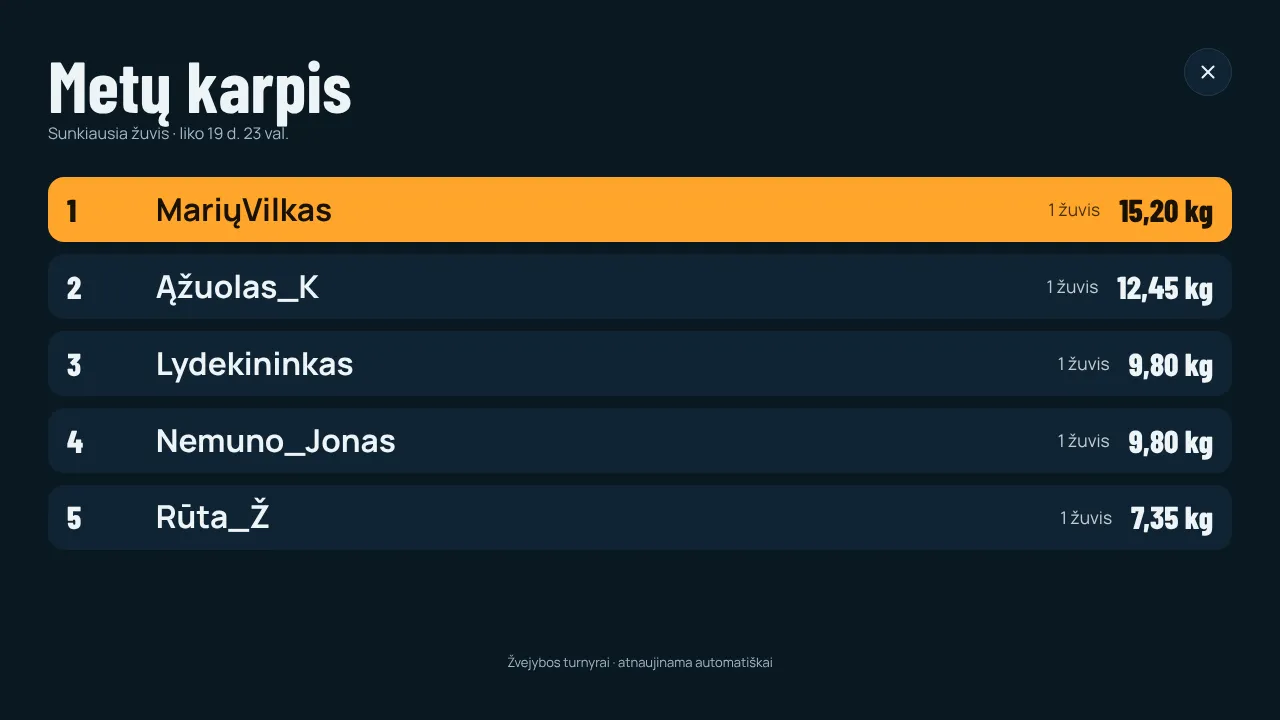
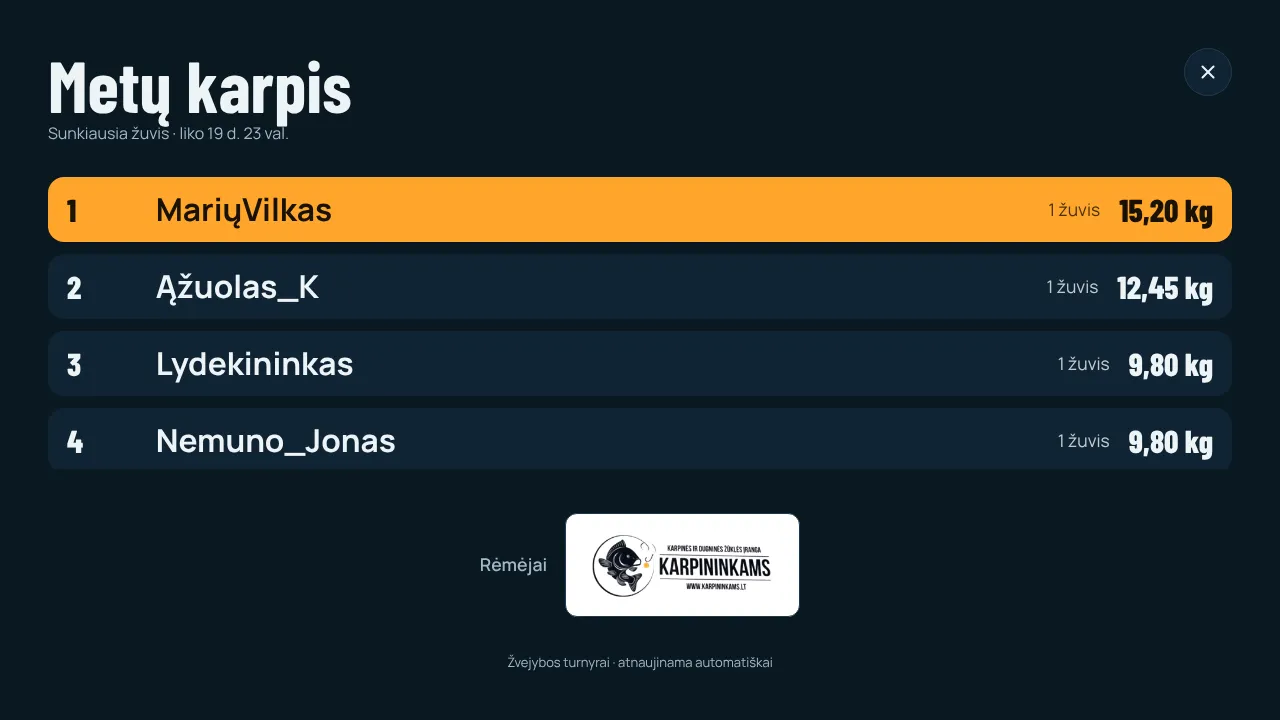
Pavyzdys rėmėjui: tikras logotipas, generalinis rėmėjas
Claude-Session: https://claude.ai/code/session_01KkNeEyQRMzFSekTpSTZf8k

diff --git a/metu-karpis.html b/metu-karpis.html
@@ -38,7 +38,10 @@
     .hero-grid { display: grid; gap: 32px; align-items: center; }
     @media (min-width: 860px) { .hero-grid { grid-template-columns: 1.1fr .9fr; } }
     .hero h1 { font-size: clamp(50px, 12vw, 88px); line-height: .95; font-weight: 800; }
-    .for { margin-top: 14px; font-weight: 700; color: var(--soft); }
+    .for { margin-top: 18px; display: inline-flex; flex-wrap: wrap; max-width: 100%; align-items: center; gap: 14px; padding: 10px 16px 10px 10px; border-radius: 18px; background: var(--surface); border: 1px solid rgba(255,166,43,.5); }
+    .for img { width: 140px; flex: none; border-radius: 10px; background: #fff; }
+    .for span { display: flex; flex-direction: column; line-height: 1.3; color: var(--soft); font-size: 14px; }
+    .for b { color: var(--accent); font-size: 17px; }
     .hero .lead { margin: 16px 0 24px; }
     .btn { display: inline-flex; align-items: center; justify-content: center; gap: 10px; min-height: 54px; padding: 0 24px; border-radius: 16px; font-weight: 800; font-size: 17px; text-decoration: none; border: 2px solid transparent; }
     .btn-primary { background: var(--accent); color: var(--on-accent); }
@@ -85,14 +88,14 @@
       <div>
         <span class="kicker">Sezono turnyras</span>
         <h1>Metų <b>karpis</b></h1>
-        <p class="for">Pasiūlymas BOILIS (Karpininkams.lt)</p>
+        <div class="for"><img src="store/pavyzdys/karpininkams.webp" alt="Karpininkams.lt" width="640" height="264"><span>Generalinis rėmėjas<b>BOILIS (Karpininkams.lt)</b></span></div>
         <p class="lead">Visą karpių sezoną žvejai varžosi dėl sunkiausio karpio. Žuvis pasveriama, nufotografuojama programėlės kamera ir paleidžiama. Lentelė atsinaujina gyvai, o BOILIS matomas visur, kur žvejai žiūri.</p>
         <div class="btns">
           <a class="btn btn-primary" href="#isbandyti">Išbandyti patiems</a>
           <a class="btn btn-ghost" href="#kaip">Kaip tai veikia</a>
         </div>
       </div>
-      <div class="phone"><img src="store/pavyzdys/lentele.webp" alt="„Metų karpis“ lentelė: vietos ir svoriai kilogramais, viršuje „Lentelę remia BOILIS (Karpininkams.lt)“" width="540" height="1169"></div>
+      <div class="phone"><img src="store/pavyzdys/lentele.webp" alt="„Metų karpis“ lentelė: vietos ir svoriai kilogramais, viršuje „Lentelę remia“ su Karpininkams logotipu" width="540" height="1169"></div>
     </div>
     <div class="facts">
       <div class="fact"><span>Trukmė</span><b>Kovas – rugsėjis</b></div>
@@ -121,8 +124,8 @@
         <div class="txt"><h3><span class="num">3</span>Mato savo vietą</h3><p>Moderatoriui patvirtinus, karpis atsiranda lentelėje. Žvejys mato savo vietą ir kiek trūksta iki aukštesnės.</p></div>
       </div>
     </div>
-    <img class="wide" src="store/pavyzdys/ekranas.webp" alt="Didžiojo ekrano vaizdas: „Metų karpis“ lentelė kilogramais" width="1280" height="720" loading="lazy">
-    <p class="note">Ekrano nuotraukose – pavyzdiniai duomenys (žvejų vardai ir svoriai sugalvoti), kad matytųsi, kaip atrodys turnyras sezono metu. Lentelę galima rodyti ir dideliame ekrane, pvz. parduotuvėje.</p>
+    <img class="wide" src="store/pavyzdys/ekranas.webp" alt="Didžiojo ekrano vaizdas: „Metų karpis“ lentelė kilogramais ir rėmėjo logotipas" width="1280" height="720" loading="lazy">
+    <p class="note">Ekrano nuotraukose – pavyzdiniai duomenys (žvejų vardai ir svoriai sugalvoti), kad matytųsi, kaip atrodys turnyras sezono metu. Lentelę su jūsų logotipu galima rodyti ir dideliame ekrane, pvz. parduotuvėje.</p>
   </div>
 </section>
 
@@ -143,11 +146,11 @@
 
 <section>
   <div class="wrap">
-    <span class="kicker">BOILIS turnyre</span>
-    <h2>Kur matomas <b>rėmėjas</b></h2>
+    <span class="kicker">Generalinis rėmėjas</span>
+    <h2>Kur matomas <b>BOILIS</b></h2>
     <ul class="list">
-      <li><span class="tick">✓</span><span><b>Turnyro pavadinimas ir puslapis</b> – pvz. „BOILIS Metų karpis“, logotipas ir nuoroda į Karpininkams.lt.</span></li>
-      <li><span class="tick">✓</span><span><b>Rezultatų lentelė</b> – „Lentelę remia BOILIS“ kiekvieną kartą, kai žvejys tikrina savo vietą.</span></li>
+      <li><span class="tick">✓</span><span><b>Turnyro pavadinimas ir puslapis</b> – pvz. „BOILIS Metų karpis“, generalinio rėmėjo logotipas ir nuoroda į Karpininkams.lt.</span></li>
+      <li><span class="tick">✓</span><span><b>Rezultatų lentelė</b> – „Lentelę remia“ su jūsų logotipu kiekvieną kartą, kai žvejys tikrina savo vietą.</span></li>
       <li><span class="tick">✓</span><span><b>Prizai</b> – prizų skiltyje nurodoma, kad prizus skiria BOILIS.</span></li>
       <li><span class="tick">✓</span><span><b>Pasiūlymas dalyviams</b> – pvz. nuolaidos kodas turnyro dalyviams.</span></li>
       <li><span class="tick">✓</span><span><b>Statistika</b> – kiek kartų logotipas parodytas ir kiek kartų paspausta nuoroda.</span></li>
